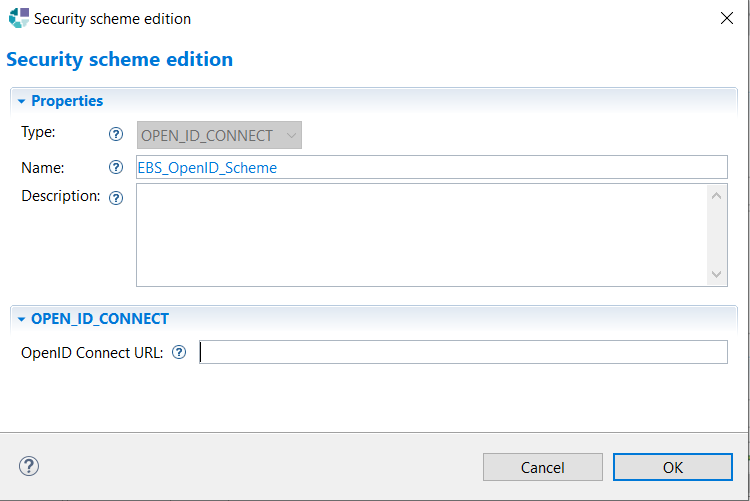
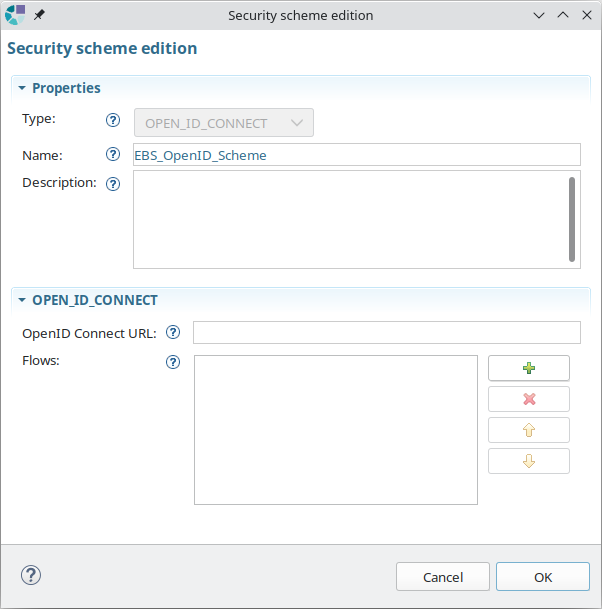
"[SAFRAN-1150] Revert WIP Don't allow Flows on SecuritySchemes of type OpenId"
This reverts commit d3eccb2ddf0e815b55e31327a93e06472c8c8fcf.

diff --git a/designs/soa/plugins/org.obeonetwork.dsl.soa.doc/doc/ISD - SOA Designer.html b/designs/soa/plugins/org.obeonetwork.dsl.soa.doc/doc/ISD - SOA Designer.html
@@ -1029,17 +1029,17 @@
 			<br/>Dans le cas d&#8217;un schéma d&#8217;authentification de type Bearer, le bearer-format définit la manière dont le token est stocké.
 		</p>
 		<p>- 
-			<strong>Open ID:</strong>
-			<br/>
-			<img style="width:51.5%" border="0" src="pics/securityschemes/Dialog_SecurityScheme_Edition_OpenID.png"/>
-		</p>
-		<p>- 
 			<strong>OAuth2:</strong>
 			<br/>
 			<img border="0" src="pics/securityschemes/Dialog_SecurityScheme_Edition_OAuth2.png"/>
 		</p>
+		<p>- 
+			<strong>Open ID:</strong>
+			<br/>
+			<img border="0" src="pics/securityschemes/Dialog_SecurityScheme_Edition_OpenID.png"/>
+		</p>
 		<p>Les 
-			<em>Security Scheme</em> de type OAuth2 requièrent la spécification de 
+			<em>Security Scheme</em> de type OAuth2 et Open ID requièrent la spécification de 
 			<em>Flows</em>, ainsi que leurs 
 			<em>Scopes</em> respectifs:
 			<br/>
@@ -1100,7 +1100,8 @@
 		</p>
 		<p>Un double-clic sur un 
 			<em>Security Scheme</em> de type 
-			<em>OAUTH2</em>  dans l&#8217;onglet 
+			<em>OAUTH2</em> ou 
+			<em>OPEN_ID_CONNECT</em> dans l&#8217;onglet 
 			<em>Security</em> ouvre une boîte de dialogue permettant de sélectionner les scopes à appliquer :
 		</p>
 		<p>

diff --git a/addons/swagger/plugins/org.obeonetwork.dsl.soa.gen.swagger/src/org/obeonetwork/dsl/soa/gen/swagger/SwaggerBuilder.java b/addons/swagger/plugins/org.obeonetwork.dsl.soa.gen.swagger/src/org/obeonetwork/dsl/soa/gen/swagger/SwaggerBuilder.java
@@ -238,11 +238,7 @@ public class SwaggerBuilder {
 			break;
 		case OPENIDCONNECT:
 			securityScheme.setOpenIdConnectUrl(soaSecurityScheme.getConnectURL());
-			if (soaSecurityScheme.getFlows() != null && !soaSecurityScheme.getFlows().isEmpty()) {
-				logWarning(String.format(
-						"SecurityScheme[name=%s]: Flows not exported because they are not allowed for OPEN_ID_CONNECT type",
-						soaSecurityScheme.getName()));
-			}
+			securityScheme.setFlows(createOAuthFlows(soaSecurityScheme.getFlows()));
 			break;
 		}
 

diff --git a/addons/swagger/plugins/org.obeonetwork.dsl.soa.gen.swagger/src/org/obeonetwork/dsl/soa/gen/swagger/SoaComponentBuilder.java b/addons/swagger/plugins/org.obeonetwork.dsl.soa.gen.swagger/src/org/obeonetwork/dsl/soa/gen/swagger/SoaComponentBuilder.java
@@ -307,9 +307,7 @@ public class SoaComponentBuilder {
 			}
 
 			if (swgSecurityScheme.getFlows() != null) {
-				logWarning(String.format(
-						"SecurityScheme[name=%s]: Flows not imported because they are not allowed for OPEN_ID_CONNECT type",
-						swgSecurityScheme.getName()));
+				soaSecurityScheme.getFlows().addAll(createSoaFlows(swgSecurityScheme.getFlows()));
 			}
 			break;
 		default:
